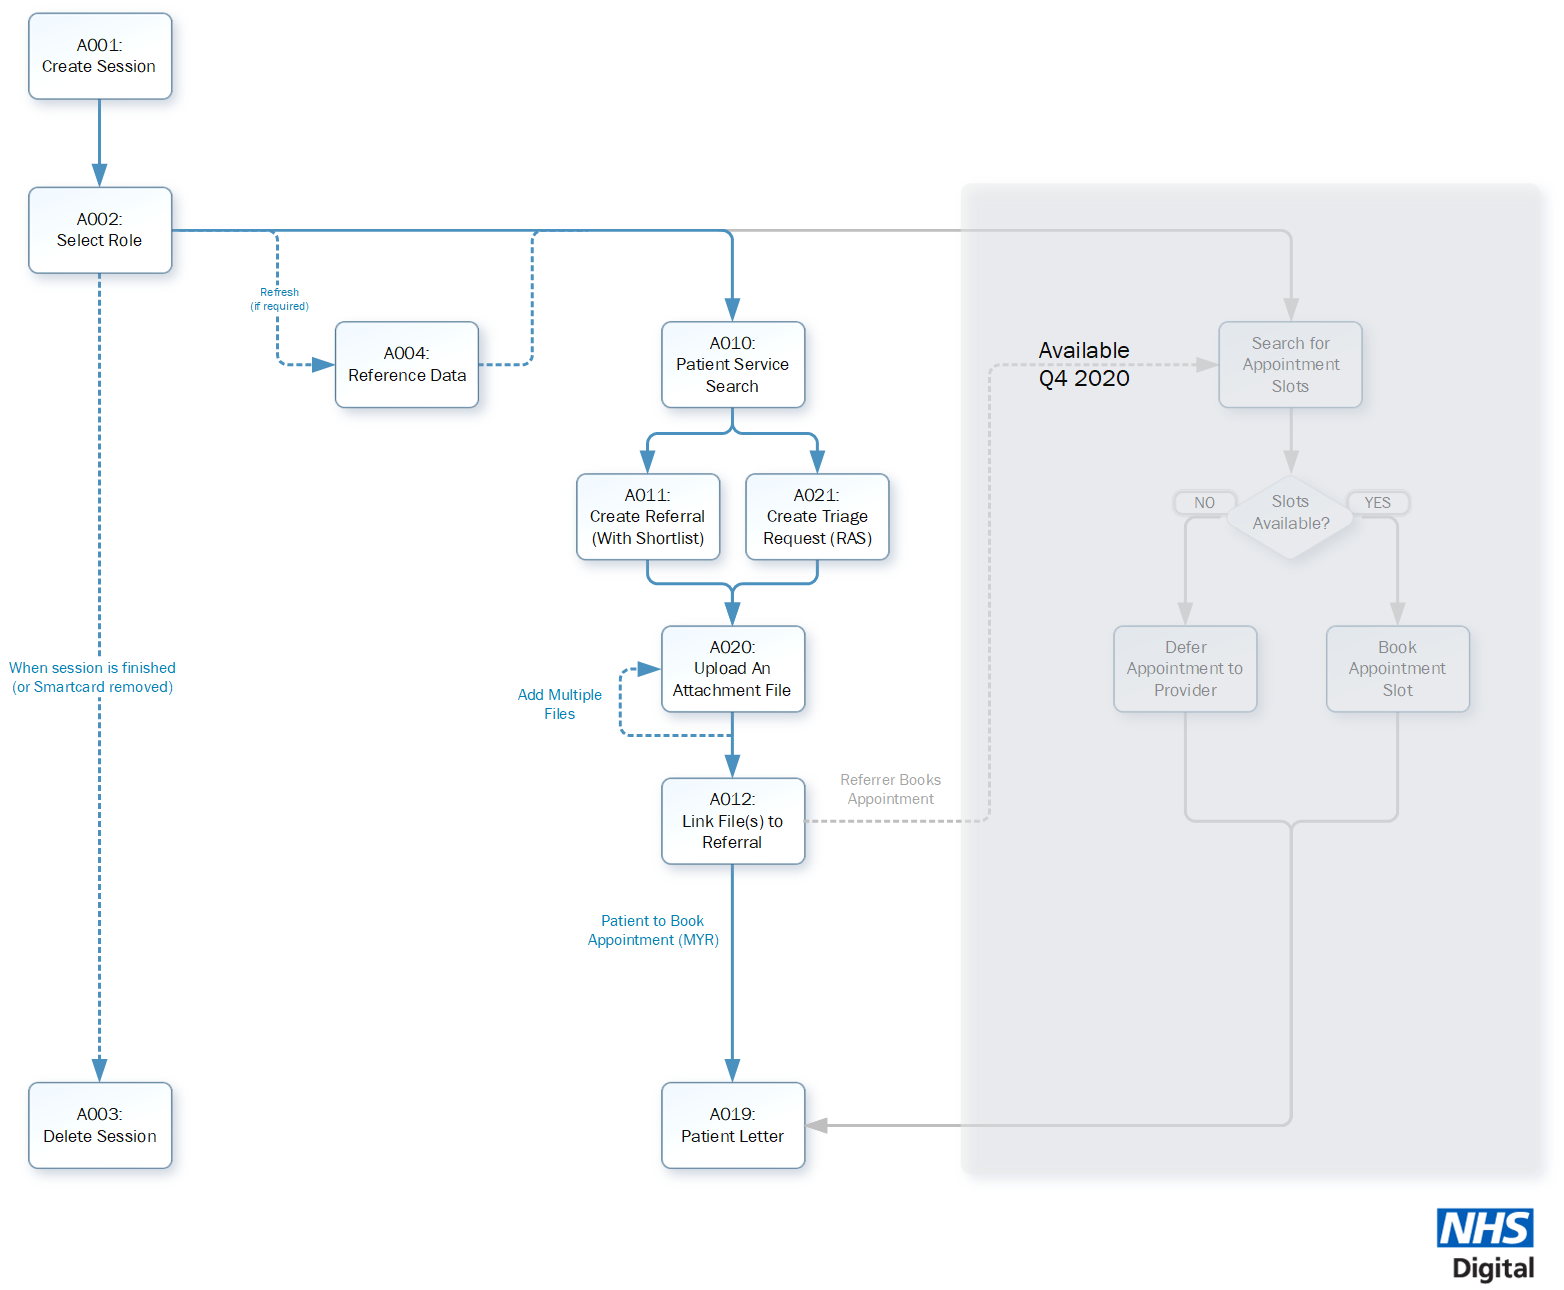
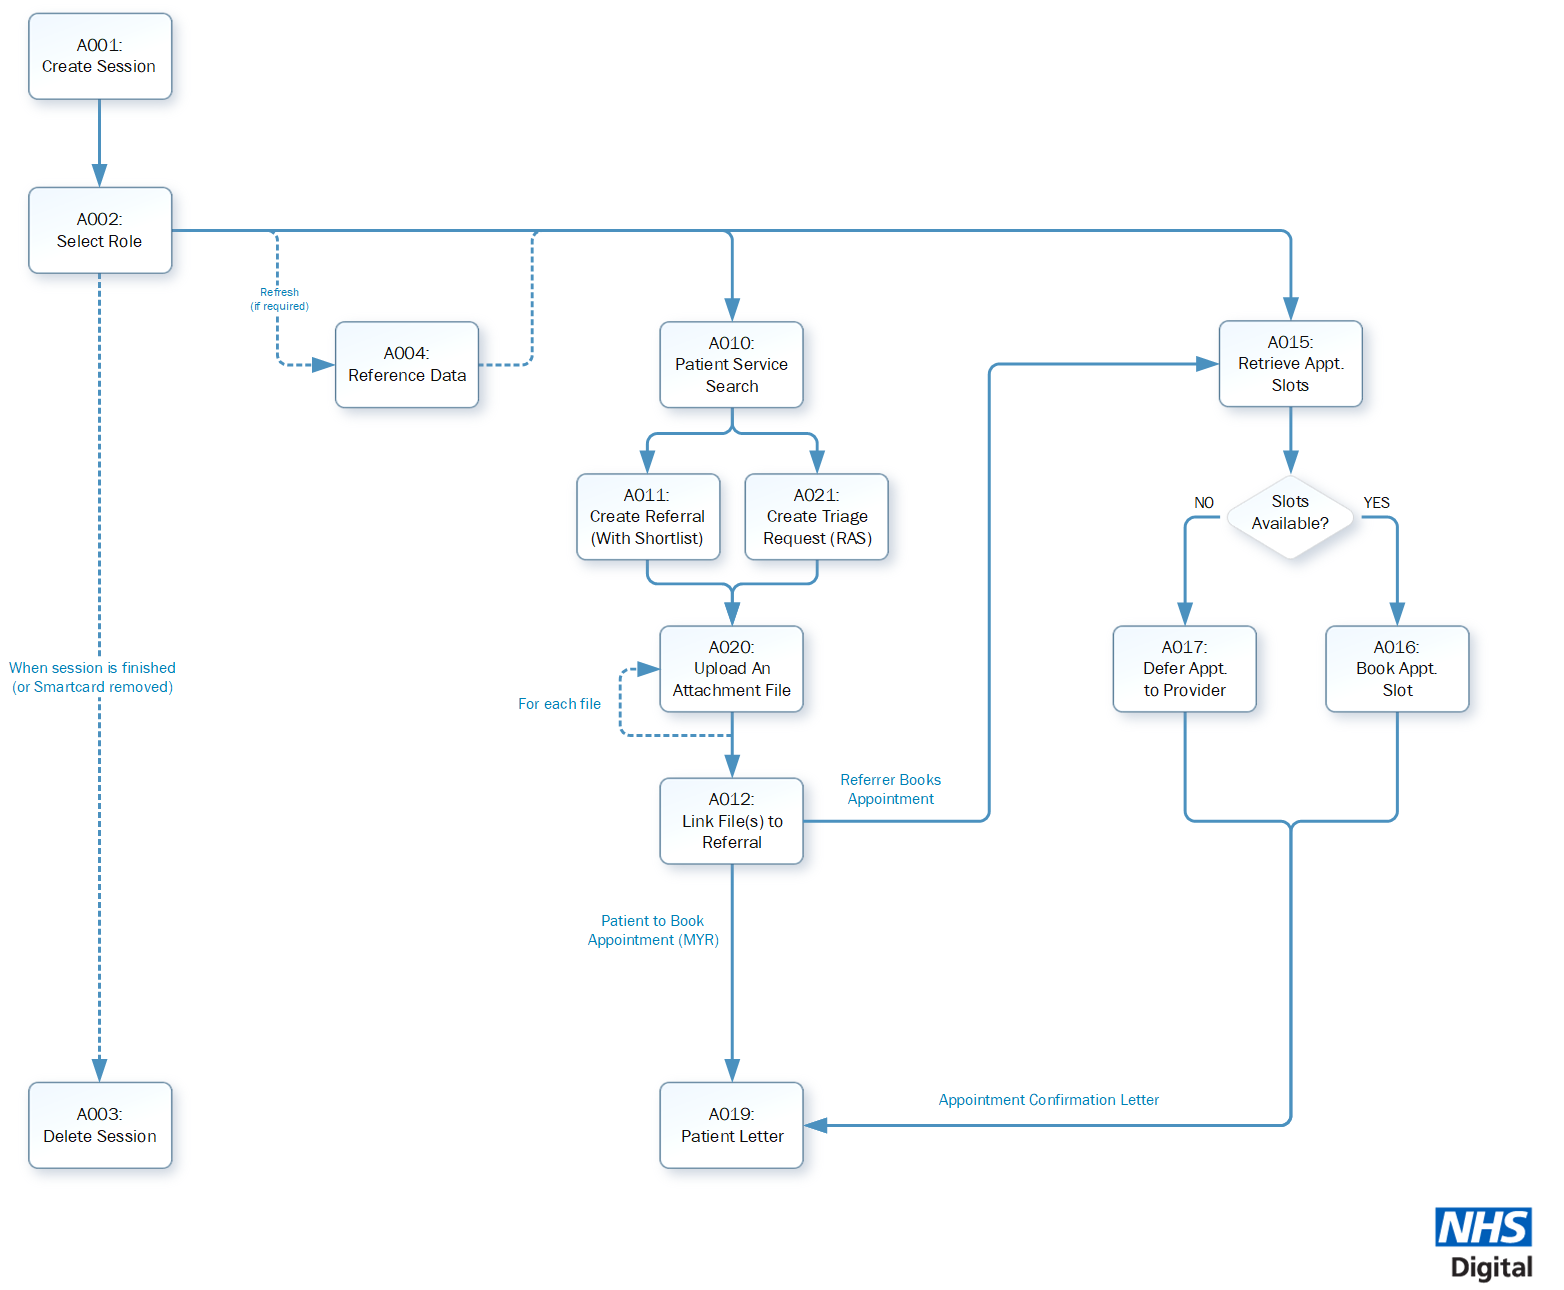
Added Appointment Booking
Endpoint pages for A015/16/17
Updated worklfow images for:
- Receiving Referrals
- Creating Referrals

diff --git a/pages/endpoints/explore_endpoint_a015.md b/pages/endpoints/explore_endpoint_a015.md
@@ -7,7 +7,97 @@ permalink: explore_endpoint_a015.html
 summary: false
 ---
 
-#### Status: IN DEVELOPMENT
+#### Status: ![Live](images/icons/api_live.png)
 
-## Release date
-Coming Q4 2020
+## Description
+This API makes available e-RS functionality which will allow the retrieval of appointment slots for a single service.  By retrieving appointment slots, subsequent APIs are supported in terms of appointment booking or deferring to a provider.
+The implementation to expose slots uses the “NHS Scheduling” FHIR model and is standard across all NHS systems.  Further information on the scheduling resource can be found [here](https://developer.nhs.uk/apis/nhsscheduling-1.0.6-alpha/resources_overview.html).
+
+
+## Resource URL
+
+Base URL (Dev1): https://api.dev1.ers.ncrs.nhs.uk/ers-api/  
+
+| Method       | URL | Authentication |
+| -------------| --- | ---------------- |
+| GET          | STU3/v1/Slot | Session Token [(Details)](develop_business_flow_bf001.html) |
+
+
+## Structure Definition
+- [eRS-Appointment-1](https://fhir.nhs.uk/STU3/StructureDefinition/eRS-Appointment-1)  
+
+## Prerequisite Conditions
+
+-	The user is authenticated with an effective business function of Referring Clinician or Referring Clinician Admin;
+-	The user has created an appointment request via A011: Create Referral
+
+
+# INPUT
+
+## Request Operation: Header
+
+| Field Name | Value |
+| ---------- | ----- |
+| XAPI_ASID | The "Accredited System ID" issued to the third party |
+| HTTP_X_SESSION_KEY | The session key generated by the [Authentication and Authorisation APIs](/develop_business_flow_bf001.html)  |
+| X-ERS-XAPI-COMM-RULE-ORG | The ODS code of the NHS organisation which has commissioned the service. This value must be supplied if searching for appointment slots for a service so that commissioned rules can be considered as part of the search parameters. This ensures that slots are returned within the commissioning contract period, available to be booked.
+
+If no code is supplied and commissioning rules apply, appointment slots may still be returned but subsequent steps to book will fail.
+The rule context organisation is included in the returned FHIR ReferralRequest via A005: Retrieve Referral Request. |
+
+## Request Operation: Parameters
+
+| Name              | FHIR Parameter                   | Cardinality | Type   | Description                        |
+| ----------------- | ---------------------------------| ----------- | ------ | ---------------------------------- |
+| serviceID         | schedule.actor:HealthcareService | 0..1        | Number | A single service ID is required to indicate the service for which appointment slots are required
+| namedClinician    | schedule.actor:Practitioner      | 0..0        | Number | Slots in e-RS may be allocated to a clinician and is set in the service provider's PAS. If a named clinician is supplied (by the UUID), the appointment slots returned are constrained to slots for which this clinician is allocated to the appointment slot. The clinician must be a named clinician for the selected service. |
+| priority          | appointmentType                  | 0..1        | Coding | Optional priority change (eRS-Priority-1) |
+| status            | status                           | 0..1        | String | The status of the appointment slots required must be supplied. This must indicate that "free" slots are required|
+| pageSize          | _count                           | 0..1        | Number | The pageSize is the maximum number of results (i.e. slots) that should be returned by this call. This value must be in the range of 1-100. 100 is the maximum slots available per API call. <br>Note: Page contents cannot be guaranteed to be contiguous with no gaps or duplicates since the availability of slots may change between calls to the API. |
+| pageNumber        | page                             | 0..1        | Number | The pageNumber is the number of pages required to be returned, starting at 1. |
+
+
+### Example URI
+```https://api.dev1.ers.ncrs.nhs.uk/ers-api/STU3/v1/Slot/?schedule.actor:HealthcareService=700345&schedule.actor:Practitioner=021600556514&appointmentType=ROUTINE&_count=20&page=1&status=free&_include=Slot:schedule
+```
+
+### Example Request Header
+Not required.
+
+
+### Example Request Body
+Not required.
+
+# OUTPUT
+## Response: Success
+If successful, when at least one slot has been found, a FHIR Bundle resource is returned.
+
+The API will supply slots from the earliest available appointment date/time up to a configurable value. In the (valid) scenario where no slots are found, an empty bundle will be returned, at which point a user can select to defer to the provider via [A017: Defer Booking to Provider](explore_endpoint_a017.html).
+
+### Example Response Header
+```http
+```
+
+### Example Response Body
+##### Note: These examples may contain environment specific URLs and test data, these should be replaced with appropriate values for your implementation.  
+
+- [(Missing example file)](downloads/json/[filename])  
+
+## Response: Failure
+If an error occurs, the relating HTTP status code will be returned in the header.  
+
+Where status code 422 (Unprocessable Entity) is returned then an [eRS-OperationOutcome-1](https://fhir.nhs.uk/STU3/StructureDefinition/eRS-OperationOutcome-1) will be included in the body, as detailed below:
+
+| OutcomeKey      | Description                                               | Suggested Diagnostic                                  |
+| --------------- | --------------------------------------------------------- | ----------------------------------------------------- |
+| NO_SUCH_SERVICE | No service exists or has ever existed for this service ID | Check the service ID via A010: Patient Service Search |
+| SERVICE_UNAVAILABLE | The service is no longer available in the directory of services (DoS) within e-RS, "Service no longer available" message is returned | The service must be active, published and within its effective date range. Check the service ID via A010: Patient Service Search |
+| INVALID_STATE | The selected service does not support an appointment request, "Unbookable service" message is returned | The service must support an appointment request, i.e. not be a triage service |
+| INVALID_STATE | The selected service does not support an appointment request, "Service is not directly bookable" message is returned | The service must be bookable, i.e. a Directly Bookable Service (DBS) |
+| INVALID_CODE | The slot status parameter value is not valid, "Invalid status code" message is returned | Select a valid code from those listed in [valueset-slotstatus](http://hl7.org/fhir/STU3/valueset-slotstatus.html) |
+| INVALID_VALUE | The slot status parameter is not ‘free’, "Requested status is not supported" message is returned | The slot status parameter must be ‘free’ |
+| INVALID_VALUE | The pageSize (FHIR '_count') parameter is not valid, "Invalid page size" message is returned  | The pageSize parameter cannot be less than 1 or higher than 100 |
+| INVALID_VALUE | The pageNumber (FHIR 'page') parameter is not valid, "Invalid page number" message is returned | The pageNumber parameter must be an integer, and have a value more than 1, or higher than the last page available. If no slots match and the requested page number is 1, no error is returned. Instead, an empty bundle is returned |
+| INVALID_VALUE | The named clinician (FHIR 'schedule.actor:Practitioner') parameter is not valid, "Invalid practitioner for service" message is returned | The professional user must exist, be active, and be a named clinician at the selected service |
+| MISSING_PARAMETER | The Commissioning Rule Organisation parameter (via the HTTP header field) is not present, "No commissioning rule org parameter" message is returned. | The Rule Context Organisation (as the "Commissioning Rule Org") applies if the service is on the primary care menu and must be present for all cases |
+| INVALID_VALUE | The Commissioning Rule Organisation parameter (via the HTTP header field) is not valid, "Commissioning Rule Organisation is not a referring organisation" message is returned | The Commissioning Rule Organisation ODS code must be recognised as an active referring organisation. e-RS organisation types such as referring organisation are mapped from SDS organisation types |

diff --git a/pages/endpoints/explore_endpoint_a016.md b/pages/endpoints/explore_endpoint_a016.md
@@ -7,7 +7,80 @@ permalink: explore_endpoint_a016.html
 summary: false
 ---
 
-#### Status: IN DEVELOPMENT
+#### Status: ![Live](images/icons/api_live.png)
 
-## Release date
-Coming Q4 2020
+## Description
+This API allows the requestor to associate a specific Appointment Slot with a specific Referral Appointment Request.
+
+## Resource URL
+
+Base URL (Dev1): https://api.dev1.ers.ncrs.nhs.uk/ers-api/  
+
+| Method       | URL | Authentication |
+| -------------| --- | ---------------- |
+| POST | STU3/v1/Appointment  | Session Token [(Details)](develop_business_flow_bf001.html) |
+
+
+## Operation Definition
+- [eRS-BookAppointment-Operation-1](https://fhir.nhs.uk/STU3/OperationDefinition/eRS-BookAppointment-Operation-1)  
+
+## Prerequisite Conditions
+- The user is authenticated with an effective business function of Referring Clinician or Referring Clinician Admin;
+- An existing appointment request must exist
+- An appointment slot search, using endpoint A015, must have been performed to obtain the relevant appointment slot details.
+
+# INPUT
+
+## Request Operation: Header
+
+| Field Name | Value |
+| ---------- | ----- |
+| XAPI_ASID | The "Accredited System ID" issued to the third party |
+| HTTP_X_SESSION_KEY | The session key generated by the [Authentication and Authorisation APIs](/develop_business_flow_bf001.html)  |
+| Content-Type | `*/*`, `application/fhir+json` |
+
+
+## Request Operation: Parameters
+
+| Name   | Cardinality | Type | Description |
+| ------ | ----------- | ---- | ----------- |
+| slotId | 1..1 | [Identifier](http://hl7.org/fhir/stu3/datatypes.html#identifier) | The identifier for this slot |
+| intentionToAddReferralLetter | 0..1 | [Coding](http://hl7.org/fhir/stu3/datatypes.html#coding) | Intention to add a referral letter, Binding (required): [eRS-ReferralLetterIntention-1](https://fhir.nhs.uk/STU3/ValueSet/eRS-ReferralLetterIntention-1) |
+
+
+### Example URI
+```http
+```
+
+### Example Request Header
+```http
+```
+
+### Example Request Body
+##### Note: These examples may contain environment specific URLs and test data, these should be replaced with appropriate values for your implementation.  
+
+- [Missing example file](downloads/json/[filename])  
+
+# OUTPUT
+## Response: Success
+If successful, the referral object is returned containing the newly associated appointment details.
+
+### Example Response Header
+```http
+```
+
+### Example Response Body
+##### Note: These examples may contain environment specific URLs and test data, these should be replaced with appropriate values for your implementation.  
+
+- [Missing example file](downloads/json/[filename])  
+
+## Response: Failure
+If an error occurs, the relating HTTP status code will be returned in the header.  
+
+Where status code 422 (Unprocessable Entity) is returned then an [eRS-OperationOutcome-1](https://fhir.nhs.uk/STU3/StructureDefinition/eRS-OperationOutcome-1) will be included in the body, as detailed below:
+
+| OutcomeKey         | Description                                                             | Suggested Diagnostic |
+| ------------------ | ----------------------------------------------------------------------- | -------------------- |
+| INAPPROPRIATE_SLOT | Failure due to mismatch between slot and Service or Appointment Request |  |
+| SERVICE_UNAVAILABLE | Indicates that a service is no longer available |  |
+| SLOT_NOT_AVAILABLE | Indicates that a slot is no longer available |  |

diff --git a/pages/explore/explore_endpoint_catalogue.md b/pages/explore/explore_endpoint_catalogue.md
@@ -24,10 +24,13 @@ summary: "Catalogue of all currently available external NHS e-Referral Service (
 |A012|[Maintain Referral Letter](explore_endpoint_a012.html) | POST: STU3/v1/ReferralRequest/{UBRN}/$ers.maintainReferralLetter | ![Live](images/icons/api_live.png) |
 |A013|[Accept Referral](explore_endpoint_a013.html) | POST: /STU3/v1/ReferralRequest/{ubrn}/$ers.acceptReferral | ![Live](images/icons/api_live.png) |
 |A014|[Reject Referral](explore_endpoint_a014.html) | POST: /STU3/v1/ReferralRequest/{ubrn}/$ers.rejectReferral | ![Live](images/icons/api_live.png) |
+|A015|[Retrieve Appointment Slots](explore_endpoint_a015.html)| GET: /STU3/v1/Slot | ![Live](images/icons/api_live.png) |
+|A016|[Book Appointment](explore_endpoint_a016.html)          | POST:	/STU3/v1/Appointment | ![Live](images/icons/api_live.png) |
+|A017|[Defer Booking to Provider](explore_endpoint_a017.html) | POST: /STU3/v1/ | ![Live](images/icons/api_live.png) |
 |A019|[Generate Patient Letter](explore_endpoint_a019.html) | POST: /STU3/v1/ReferralRequest/[UBRN]/$ers.generatePatientLetter | ![Live](images/icons/api_live.png) |
 |A020|[Upload File To Document Store](explore_endpoint_a020.html) | POST: /STU3/v1/Binary | ![Live](images/icons/api_live.png) |
 |A021|[Create Referral And Send For Triage](explore_endpoint_a021.html) | POST: /STU3/v1/ReferralRequest/$ers.createReferralAndSendForTriage | ![Live](images/icons/api_live.png) |
-|A022|[Cancel Appointment, Action Later](explore_endpoint_a022.html) | POST: v1/ReferralRequest/{UBRN}/$ers.CancelAppointmentActionLater | Available Q3 2020 |
+|A022|[Cancel Appointment, Action Later](explore_endpoint_a022.html) | POST: v1/ReferralRequest/{UBRN}/$ers.CancelAppointmentActionLater | ![Live](images/icons/api_live.png) |
 
 ## FHIR v2 APIs (Deprecated)   
 
@@ -41,12 +44,9 @@ summary: "Catalogue of all currently available external NHS e-Referral Service (
 
 ## APIs In Development
 
-| ID | Name                                                   | Expected release | FHIR Version |
-|----|--------------------------------------------------------|:----------------:|:------------:|
-|A015|[Retrieve Appointment Slots](explore_endpoint_a015.html)|      Q4 2020     |     STU3     |
-|A016|[Book Appointment](explore_endpoint_a016.html)          |      Q4 2020     |     STU3     |
-|A017|[Defer Booking to Provider](explore_endpoint_a017.html) |      Q4 2020     |     STU3     |
-|A0XX| UBRN List                                              |      Q4 2020     |     STU3     |
+| ID   | Name                                                    | Expected release | FHIR Version |
+|------|---------------------------------------------------------|:----------------:|:------------:|
+| A0xx | A&G Conversation                                        | Q2 2021          | STU3         | 
 
 ## Retired APIs
 

diff --git a/pages/endpoints/explore_endpoint_a0xxBook.md b/pages/endpoints/explore_endpoint_a0xxBook.md
@@ -1,18 +1,16 @@
 ---
-title: "A017: Defer Booking to Provider"
-keywords: endpoint, catalogue
+title: "xxx"
+keywords:  
 sidebar: overview_sidebar
 toc: false
-permalink: explore_endpoint_a017.html
+permalink: xxx.html
 summary: false
 ---
 
 #### Status: ![Live](images/icons/api_live.png)
 
 ## Description
-This API allows the responsibility for booking a patient's appointment to be "deferred to provider" because there are no slots available at their chosen service.
 
-##### Note: e-RS will validate that there are no slots available at a chosen service and only allow a "defer to provider" when that is the case. It is therefore highly recommended that this action is performed immediately following a request to [A015: Retrieve Appointment Slots](explore_endpoint_a015.html) which has returned no available slots.
 
 ## Resource URL
 
@@ -20,11 +18,11 @@ Base URL (Dev1): https://api.dev1.ers.ncrs.nhs.uk/ers-api/
 
 | Method       | URL | Authentication |
 | -------------| --- | ---------------- |
-| POST | STU3/v1/Appointment | Session Token [(Details)](develop_business_flow_bf001.html) |
+| POST | /STU3/v1/ReferralRequest/{ubrn}/$ers.rejectReferral | Session Token [(Details)](develop_business_flow_bf001.html) |
 
 
 ## Operation Definition
-- []()  
+- [eRS-RejectReferral-Operation-1](https://fhir.nhs.uk/STU3/OperationDefinition/eRS-RejectReferral-Operation-1)  
 
 ## Prerequisite Conditions
 -
@@ -79,8 +77,7 @@ If successful, ...
 ## Response: Failure
 If an error occurs, the relating HTTP status code will be returned in the header.  
 
-Where status code 422 (Unprocessable Entity) is returned then an [eRS-OperationOutcome-1](https://fhir.nhs.uk/STU3/StructureDefinition/eRS-OperationOutcome-1) will be included in the body, as detailed below:
+Where status code 422 (Unprocessable Entity) is returned then an eRS-OperationOutcome-1 will be included in the body, as detailed below:
 
 | OutcomeKey | Description | Suggested Diagnostic |
 | ---------- | ----------- | -------------------- |
-| SLOTS_CURRENTLY_AVAILABLE | "There are currently future slots available, so you cannot defer to this Service to book" | This is returned when an attempt to defer to provider is performed when there are currently slots available for booking |
